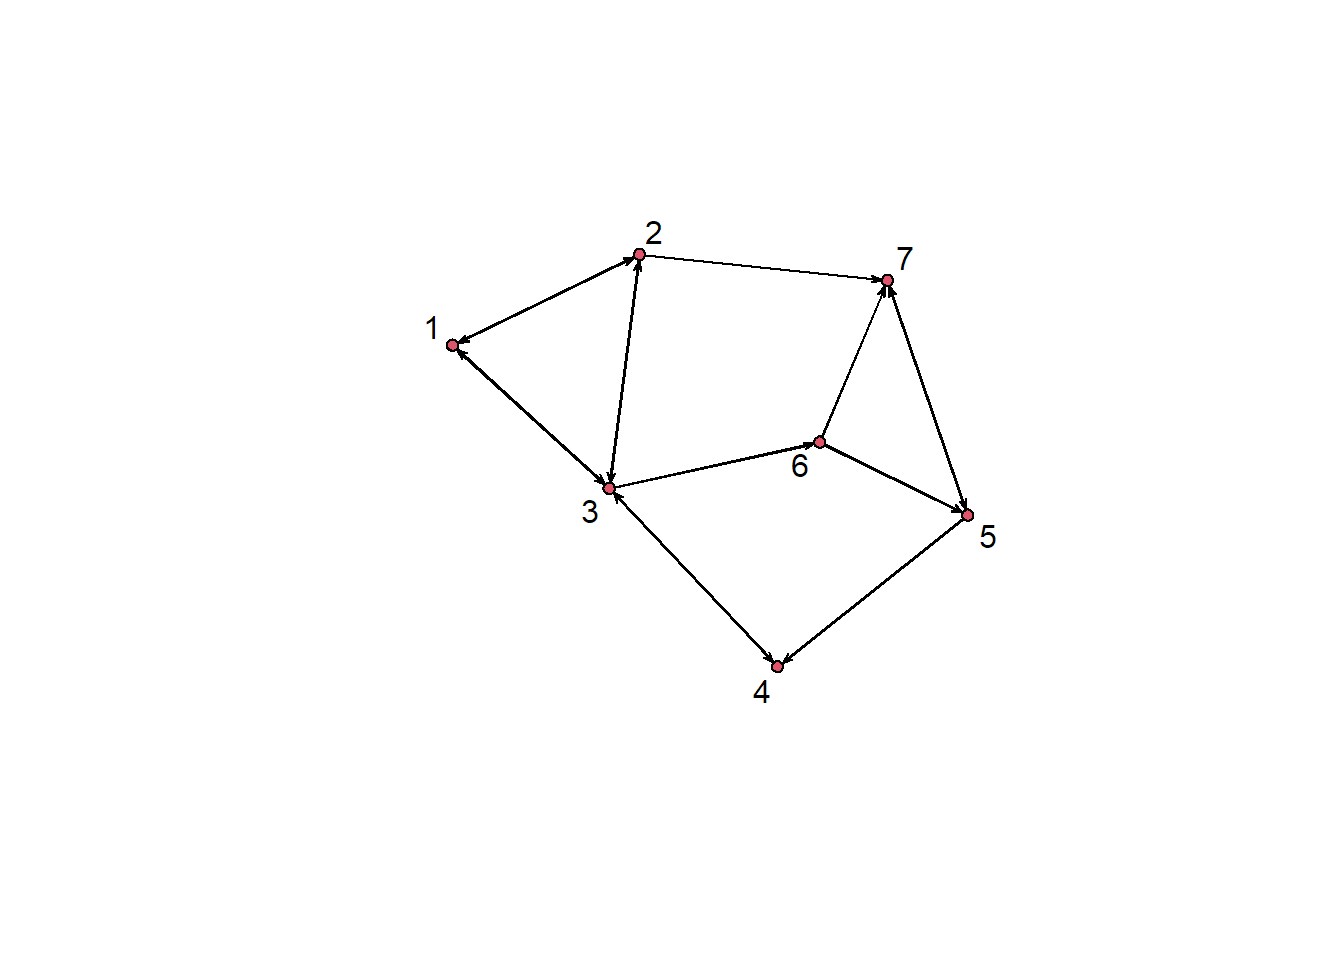
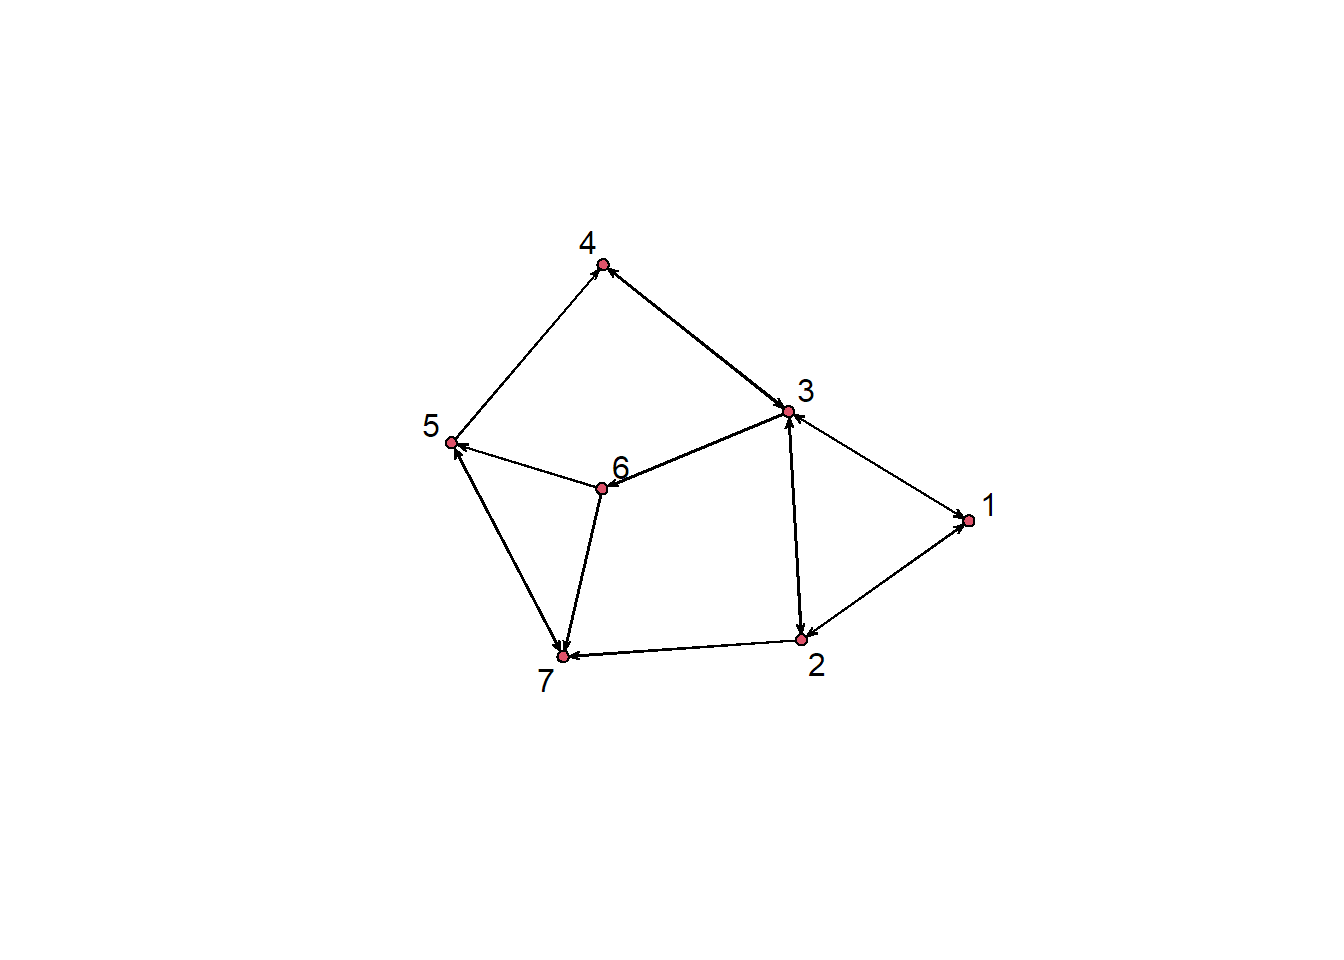
Built site for gh-pages

diff --git a/blogs/2026-08-09-ergm-interpretation_part1/index.html b/blogs/2026-08-09-ergm-interpretation_part1/index.html
@@ -322,7 +322,7 @@ No edge attributes</code></pre>
 </div>
 <section id="starting-with-a-null-model" class="level2">
 <h2 class="anchored" data-anchor-id="starting-with-a-null-model">Starting with a null model</h2>
-<p>The simplest possible ERGM says that every tie forms independently, with some constant probability. In ERGM syntax that is a model with nothing but an <code>edges</code> term.</p>
+<p>The simplest possible ERGM says that every tie forms independently, with some constant probability. In ERGM syntax that is a model with nothing but an <code>edges</code> term. This is equivalnt to an intercept only regression model.</p>
 <div class="cell">
 <div class="code-copy-outer-scaffold"><div class="sourceCode cell-code" id="cb3"><pre class="sourceCode r code-with-copy"><code class="sourceCode r"><span id="cb3-1"><a href="#cb3-1" aria-hidden="true" tabindex="-1"></a>mod1 <span class="ot">&lt;-</span> <span class="fu">ergm</span>(par5 <span class="sc">~</span> edges)</span></code></pre></div><button title="Copy to Clipboard" class="code-copy-button"><i class="bi"></i></button></div>
 <div class="cell-output cell-output-stderr">
@@ -375,7 +375,7 @@ AIC: 333.5  BIC: 337.3  (Smaller is better. MC Std. Err. = 0)</code></pre>
 <pre><code>[1] 0.2320261</code></pre>
 </div>
 </div>
-<p>This is worth sitting with for a moment. In a model where the only thing governing tie formation is a constant probability, the fitted probability <em>has</em> to be the observed density — there is nothing else in the model to explain anything. We can confirm the arithmetic directly:</p>
+<p>Take a second to think about this. In a model where the only thing governing tie formation is a constant probability, the fitted probability <em>has</em> to be the observed density as there is nothing else in the model to explain anything. We can confirm the arithmetic directly:</p>
 <div class="cell">
 <div class="code-copy-outer-scaffold"><div class="sourceCode cell-code" id="cb16"><pre class="sourceCode r code-with-copy"><code class="sourceCode r"><span id="cb16-1"><a href="#cb16-1" aria-hidden="true" tabindex="-1"></a><span class="fu">network.dyadcount</span>(par5)   <span class="co"># 18 * 17 possible directed ties</span></span></code></pre></div><button title="Copy to Clipboard" class="code-copy-button"><i class="bi"></i></button></div>
 <div class="cell-output cell-output-stdout">
@@ -390,11 +390,11 @@ AIC: 333.5  BIC: 337.3  (Smaller is better. MC Std. Err. = 0)</code></pre>
 <pre><code>[1] 0.2320261</code></pre>
 </div>
 </div>
-<p>So the null model recovers the density and nothing more. The question is whether density alone is a good description of this network.</p>
+<p>So the null model recovers the density and nothing more.</p>
 </section>
 <section id="simulating-from-the-model" class="level2">
 <h2 class="anchored" data-anchor-id="simulating-from-the-model">Simulating from the model</h2>
-<p>One of the genuinely useful things about ERGMs is that a fitted model is a probability distribution over networks. We can draw from it and compare what the model produces against what we actually observed.</p>
+<p>One very useful thing about ERGMs is that a fitted model is a probability distribution over networks. We can randomly draw networks from the model and compare what the model produces against what we actually observed.</p>
 <div class="cell">
 <div class="code-copy-outer-scaffold"><div class="sourceCode cell-code" id="cb22"><pre class="sourceCode r code-with-copy"><code class="sourceCode r"><span id="cb22-1"><a href="#cb22-1" aria-hidden="true" tabindex="-1"></a>sims <span class="ot">&lt;-</span> <span class="fu">simulate</span>(mod1, <span class="at">nsim =</span> <span class="dv">1</span>)</span>
 <span id="cb22-2"><a href="#cb22-2" aria-hidden="true" tabindex="-1"></a><span class="fu">plot</span>(sims)</span></code></pre></div><button title="Copy to Clipboard" class="code-copy-button"><i class="bi"></i></button></div>
@@ -406,12 +406,12 @@ AIC: 333.5  BIC: 337.3  (Smaller is better. MC Std. Err. = 0)</code></pre>
 </div>
 </div>
 </div>
-<p>Now compare a handful of statistics between the simulated network and the real one:</p>
+<p>Now that we have simulated one network from our model, let’s compare a handful of statistics between the simulated network and the real one:</p>
 <div class="cell">
 <div class="code-copy-outer-scaffold"><div class="sourceCode cell-code" id="cb23"><pre class="sourceCode r code-with-copy"><code class="sourceCode r"><span id="cb23-1"><a href="#cb23-1" aria-hidden="true" tabindex="-1"></a><span class="fu">summary</span>(sims <span class="sc">~</span> edges <span class="sc">+</span> mutual <span class="sc">+</span> triangle <span class="sc">+</span> twopath)</span></code></pre></div><button title="Copy to Clipboard" class="code-copy-button"><i class="bi"></i></button></div>
 <div class="cell-output cell-output-stdout">
 <pre><code>   edges   mutual triangle  twopath 
-      66        8       61      228 </code></pre>
+      71        8       81      259 </code></pre>
 </div>
 <div class="code-copy-outer-scaffold"><div class="sourceCode cell-code" id="cb25"><pre class="sourceCode r code-with-copy"><code class="sourceCode r"><span id="cb25-1"><a href="#cb25-1" aria-hidden="true" tabindex="-1"></a><span class="fu">summary</span>(par5 <span class="sc">~</span> edges <span class="sc">+</span> mutual <span class="sc">+</span> triangle <span class="sc">+</span> twopath)</span></code></pre></div><button title="Copy to Clipboard" class="code-copy-button"><i class="bi"></i></button></div>
 <div class="cell-output cell-output-stdout">
@@ -420,11 +420,11 @@ AIC: 333.5  BIC: 337.3  (Smaller is better. MC Std. Err. = 0)</code></pre>
 </div>
 </div>
 <p>The edge counts line up well, which is what we expected — the model was built to match density. But the observed network has considerably more reciprocated ties and more triangles than the model produces. Teachers tend to ask <em>each other</em> for help, and advice ties cluster into triads. A model assuming independence between ties has no way to represent either pattern.</p>
-<p>That gap is the whole motivation for everything that follows. We want a model whose simulated networks look like the one we observed, not just in density but in the structural features we care about.</p>
+<p>Trying to get the count of relevant statistics in our data to match the simulated networks that come from our fitted model is our main goal. In other words, we want a model whose simulated networks look like the one we observed, not just in density but in the structural features we care about.</p>
 </section>
 <section id="what-the-statistics-actually-count" class="level2">
 <h2 class="anchored" data-anchor-id="what-the-statistics-actually-count">What the statistics actually count</h2>
-<p>Before adding terms, it helps to see what these network statistics are counting. The counts are hard to eyeball even in a small network of 18 nodes, so let’s simulate an even smaller undirected network of 7 nodes:</p>
+<p>Before adding additional terms to our model, it helps to see what these network statistics are counting. The counts are hard to eyeball even in a small network of 18 nodes, so let’s simulate an even smaller undirected network of 7 nodes:</p>
 <div class="cell">
 <div class="code-copy-outer-scaffold"><div class="sourceCode cell-code" id="cb27"><pre class="sourceCode r code-with-copy"><code class="sourceCode r"><span id="cb27-1"><a href="#cb27-1" aria-hidden="true" tabindex="-1"></a>newmat <span class="ot">&lt;-</span> <span class="fu">rbind</span>(<span class="fu">c</span>(<span class="dv">0</span>,<span class="dv">1</span>,<span class="dv">1</span>,<span class="dv">1</span>,<span class="dv">0</span>,<span class="dv">0</span>,<span class="dv">0</span>),</span>
 <span id="cb27-2"><a href="#cb27-2" aria-hidden="true" tabindex="-1"></a>                <span class="fu">c</span>(<span class="dv">1</span>,<span class="dv">0</span>,<span class="dv">1</span>,<span class="dv">1</span>,<span class="dv">0</span>,<span class="dv">0</span>,<span class="dv">0</span>),</span>
@@ -476,10 +476,10 @@ AIC: 333.5  BIC: 337.3  (Smaller is better. MC Std. Err. = 0)</code></pre>
 </section>
 <section id="dyadic-independent-terms" class="level2">
 <h2 class="anchored" data-anchor-id="dyadic-independent-terms">Dyadic independent terms</h2>
-<p>Terms are called <em>dyadic independent</em> when the value of one tie does not depend on any other tie. These behave much like predictors in a logistic regression, and the interpretation carries over directly.</p>
+<p>Terms are called <em>dyadic independent</em> when the value of one tie does not depend on any other tie. These behave much like predictors in a logistic regression, and the interpretation carries over directly. In fact, and ergm with only dyadic independent terms collapses to a logisitic regression.</p>
 <section id="categorical-attributes" class="level3">
 <h3 class="anchored" data-anchor-id="categorical-attributes">Categorical attributes</h3>
-<p>Teachers in these data either teach a single grade or multiple grades. We can ask whether that affects the ties they send and receive:</p>
+<p>Teachers in these data either teach a single grade or multiple grades. Multiple grade teachers were level ‘8’ in our data. We can now ask whether that affects the ties they send and receive:</p>
 <div class="cell">
 <div class="code-copy-outer-scaffold"><div class="sourceCode cell-code" id="cb33"><pre class="sourceCode r code-with-copy"><code class="sourceCode r"><span id="cb33-1"><a href="#cb33-1" aria-hidden="true" tabindex="-1"></a>mod2a <span class="ot">&lt;-</span> <span class="fu">ergm</span>(par5 <span class="sc">~</span> edges <span class="sc">+</span> <span class="fu">nodeifactor</span>(<span class="st">"GRADE"</span>, <span class="at">levels =</span> <span class="dv">8</span>) <span class="sc">+</span></span>
 <span id="cb33-2"><a href="#cb33-2" aria-hidden="true" tabindex="-1"></a>                <span class="fu">nodeofactor</span>(<span class="st">"GRADE"</span>, <span class="at">levels =</span> <span class="dv">8</span>))</span></code></pre></div><button title="Copy to Clipboard" class="code-copy-button"><i class="bi"></i></button></div>
@@ -539,8 +539,8 @@ coefficient vector of an ergm is deprecated. Use coef(x) instead.</code></pre>
                         1.662821 </code></pre>
 </div>
 </div>
-<p>About <span class="math inline">\(1.6\)</span>. Holding everything else constant, the odds of sending an advice tie increase by a factor of roughly 1.6 when the sender teaches multiple grades rather than one.</p>
-<p>It’s worth verifying that this is really what the coefficient means. The odds that a single-grade teacher sends a tie to another single-grade teacher:</p>
+<p>About <span class="math inline">\(1.6\)</span>. Holding everything else constant, the odds of sending an advice tie increase by a factor of roughly 1.6 when the sender teaches multiple grades rather than teaches in a single grade.</p>
+<p>Let’s clarify what this coefficient means. The odds that a single-grade teacher sends a tie to another single-grade teacher:</p>
 <div class="cell">
 <div class="code-copy-outer-scaffold"><div class="sourceCode cell-code" id="cb45"><pre class="sourceCode r code-with-copy"><code class="sourceCode r"><span id="cb45-1"><a href="#cb45-1" aria-hidden="true" tabindex="-1"></a>a <span class="ot">&lt;-</span> <span class="fu">exp</span>(<span class="sc">-</span><span class="fl">1.56</span>)</span>
 <span id="cb45-2"><a href="#cb45-2" aria-hidden="true" tabindex="-1"></a>a</span></code></pre></div><button title="Copy to Clipboard" class="code-copy-button"><i class="bi"></i></button></div>
@@ -575,7 +575,7 @@ coefficient vector of an ergm is deprecated. Use coef(x) instead.</code></pre>
 </section>
 <section id="homophily" class="level3">
 <h3 class="anchored" data-anchor-id="homophily">Homophily</h3>
-<p>A separate question is whether teachers seek advice from others <em>like</em> themselves. <code>nodematch</code> tests exactly that:</p>
+<p>Homophily is a common finding in networks. Here, let’s examine whether teachers seek advice from others <em>like</em> themselves. <code>nodematch</code> is the term that tests homophily on categorical variables.</p>
 <div class="cell">
 <div class="code-copy-outer-scaffold"><div class="sourceCode cell-code" id="cb55"><pre class="sourceCode r code-with-copy"><code class="sourceCode r"><span id="cb55-1"><a href="#cb55-1" aria-hidden="true" tabindex="-1"></a>mod2b <span class="ot">&lt;-</span> <span class="fu">ergm</span>(par5 <span class="sc">~</span> edges <span class="sc">+</span> <span class="fu">nodematch</span>(<span class="st">"GRADE"</span>, <span class="at">diff =</span> <span class="cn">FALSE</span>))</span></code></pre></div><button title="Copy to Clipboard" class="code-copy-button"><i class="bi"></i></button></div>
 <div class="cell-output cell-output-stderr">
@@ -624,7 +624,8 @@ AIC: 329.8  BIC: 337.2  (Smaller is better. MC Std. Err. = 0)</code></pre>
 </section>
 <section id="continuous-attributes" class="level3">
 <h3 class="anchored" data-anchor-id="continuous-attributes">Continuous attributes</h3>
-<p>Continuous attributes work the same way, with <code>nodeicov</code> and <code>nodeocov</code> for receiving and sending effects. Here the attribute is a teacher’s perception of how competitive their school is internally:</p>
+<p>Continuous attributes work the same way, with <code>nodeicov</code> and <code>nodeocov</code> for receiving and sending effects. One of the main variables of interest for me was <strong>competition</strong>. I was interested in how schools shape the competitive climate in which teachers operate, and how perceptions of that climate influence tendencies to seek and/or provide advice.</p>
+<p>Thus, a teacher’s perception of their school’s level of internal competition is a continuous actor attribute, and we can explore the main effects of this attribute as follows.</p>
 <div class="cell">
 <div class="code-copy-outer-scaffold"><div class="sourceCode cell-code" id="cb66"><pre class="sourceCode r code-with-copy"><code class="sourceCode r"><span id="cb66-1"><a href="#cb66-1" aria-hidden="true" tabindex="-1"></a>mod3 <span class="ot">&lt;-</span> <span class="fu">ergm</span>(par5 <span class="sc">~</span> edges <span class="sc">+</span> <span class="fu">nodeicov</span>(<span class="st">"COMP.1"</span>) <span class="sc">+</span> <span class="fu">nodeocov</span>(<span class="st">"COMP.1"</span>))</span></code></pre></div><button title="Copy to Clipboard" class="code-copy-button"><i class="bi"></i></button></div>
 <div class="cell-output cell-output-stderr">
@@ -665,6 +666,7 @@ Signif. codes:  0 '***' 0.001 '**' 0.01 '*' 0.05 '.' 0.1 ' ' 1
 AIC: 317.4  BIC: 328.5  (Smaller is better. MC Std. Err. = 0)</code></pre>
 </div>
 </div>
+<p>If we look at the sender effect (<code>nodeocov</code>), a one-unit increase (1 SD in the full sample) in a teacher’s perception of internal competition changes the log odds of sending a tie by −.55. In terms of odds: a one-unit increase in perceived internal competition decreases the odds of sending a tie by 42% (exp(−.55) = .58).</p>
 <p>For homophily on a continuous attribute, <code>absdiff</code> uses the absolute difference between sender and receiver — here, years served in the district:</p>
 <div class="cell">
 <div class="code-copy-outer-scaffold"><div class="sourceCode cell-code" id="cb75"><pre class="sourceCode r code-with-copy"><code class="sourceCode r"><span id="cb75-1"><a href="#cb75-1" aria-hidden="true" tabindex="-1"></a>mod4 <span class="ot">&lt;-</span> <span class="fu">ergm</span>(par5 <span class="sc">~</span> edges <span class="sc">+</span> <span class="fu">absdiff</span>(<span class="st">"YRSDIST"</span>))</span></code></pre></div><button title="Copy to Clipboard" class="code-copy-button"><i class="bi"></i></button></div>
@@ -710,11 +712,12 @@ AIC: 332.8  BIC: 340.2  (Smaller is better. MC Std. Err. = 0)</code></pre>
       0.9765443 </code></pre>
 </div>
 </div>
-<p>About <span class="math inline">\(0.98\)</span>, so each additional year of difference in tenure reduces the odds of a tie by roughly 2%. Small per year, but it compounds across the range: a twenty-year gap is a substantial penalty.</p>
+<p>Why is our homophily term negative here. <code>absdiff</code> adds up the difference in years across ties. A negative coefficient means ties are less likely the bigger the difference, so teachers with similar tenure are more likely to be tied. Negative = homophily for absdiff.</p>
+<p>So with an exponentiated coefficient of <span class="math inline">\(0.98\)</span>, we find that each additional year of difference in tenure reduces the odds of a tie by roughly 2%. Small per year, but a 10 year gap has a significant impact.</p>
 </section>
 <section id="another-network-as-a-predictor" class="level3">
 <h3 class="anchored" data-anchor-id="another-network-as-a-predictor">Another network as a predictor</h3>
-<p>One of the most useful terms in practice is <code>edgecov</code>, which uses a second network as a dyadic predictor. Here we ask whether friendship predicts advice seeking.</p>
+<p>Another useful term is <code>edgecov</code>, which uses a second network as a dyadic predictor. Here we ask whether friendship predicts advice seeking.</p>
 <div class="cell">
 <div class="code-copy-outer-scaffold"><div class="sourceCode cell-code" id="cb86"><pre class="sourceCode r code-with-copy"><code class="sourceCode r"><span id="cb86-1"><a href="#cb86-1" aria-hidden="true" tabindex="-1"></a><span class="fu">load</span>(<span class="st">"par.friends.RData"</span>)</span>
 <span id="cb86-2"><a href="#cb86-2" aria-hidden="true" tabindex="-1"></a></span>
@@ -766,12 +769,12 @@ AIC: 263  BIC: 270.4  (Smaller is better. MC Std. Err. = 0)</code></pre>
            15.55063 </code></pre>
 </div>
 </div>
-<p>Advice ties are roughly 15 times more likely between teachers who are also friends. That row-name check above matters more than it looks — if the two networks are ordered differently, <code>edgecov</code> will silently compare the wrong dyads and hand you a plausible, wrong answer.</p>
+<p>Advice ties are roughly 15 times more likely between teachers who are also friends. The row-name check above is important. If the networks are ordered differently, <code>edgecov</code> will just compare the wrong dyads (with no warning) and simply give you a wrong answer.</p>
 </section>
 </section>
 <section id="where-this-leaves-us" class="level2">
 <h2 class="anchored" data-anchor-id="where-this-leaves-us">Where this leaves us</h2>
-<p>Everything so far assumes ties are independent of one another given the covariates. That assumption is what makes these models straightforward to fit and interpret — and it is also what the earlier simulation showed to be wrong. The excess reciprocity and clustering in the observed network are precisely the patterns dyadic independent terms cannot capture.</p>
+<p>Everything so far assumes ties are independent of one another given the covariates. That assumption is what makes these models straightforward to fit and interpret — and it is also what the earlier simulation showed to be wrong. The additional reciprocity and clustering in the observed network are precisely the patterns dyadic independent terms cannot capture.</p>
 <p><a href="../../blogs/2026-08-09-ergm-interpretation_part2/index.html">The next post</a> takes up dyadic dependent terms along with the model degeneracy, and how to check whether a fitted model actually reproduces the network you started with.</p>
 
 

diff --git a/blogs.html b/blogs.html
@@ -244,7 +244,7 @@ window.Quarto = {
 
 <div class="quarto-listing quarto-listing-container-grid" id="listing-listing">
 <div class="list grid quarto-listing-cols-3">
-<div class="g-col-1" data-index="0" data-categories="ZXJnbSUyQ3NuYSUyQ3I=" data-listing-date-sort="1786251600000" data-listing-file-modified-sort="1786800855586" data-listing-date-modified-sort="NaN" data-listing-reading-time-sort="7" data-listing-word-count-sort="1258">
+<div class="g-col-1" data-index="0" data-categories="ZXJnbSUyQ3NuYSUyQ3I=" data-listing-date-sort="1786251600000" data-listing-file-modified-sort="1795191521162" data-listing-date-modified-sort="NaN" data-listing-reading-time-sort="8" data-listing-word-count-sort="1495">
 <a href="./blogs/2026-08-09-ergm-interpretation_part1/index.html" class="quarto-grid-link">
 <div class="quarto-grid-item card h-100 card-left">
 <p class="card-img-top">
